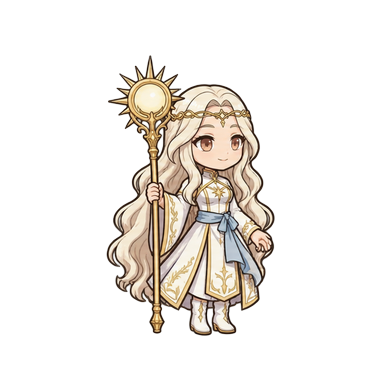
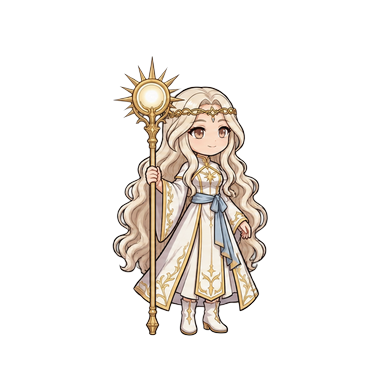
Art: Hikarine idle frames (AI)

Changed region(s): [[0.2812, 0.125, 0.7188, 0.875]]

diff --git a/docs/DEVELOPMENT_LOG.md b/docs/DEVELOPMENT_LOG.md
@@ -2291,3 +2291,12 @@ Các giá trị Q1–Q6 là **tuning trong data**, không sửa `CHARACTER_SKILL
 - **Kết quả thật:** Ba lớp 3840×2160; far alpha (255,255), mid/near alpha (0,255), sai lệch mép lặp = 0; preview stack 7680×2160. Godot quét/nhập cả 3 ảnh, mã thoát 0. Full test mã thoát 0: GdUnit 788/788, 5/5 smoke đạt. ART_MASTER báo 85 ảnh, 8 đã có, 2039 dòng.
 - **Quyết định Codex chọn:** Dùng tranh `ch01_open_01` làm tham chiếu cùng cảnh; theo owner, dùng lớp liền trước trong cùng lô làm tham chiếu khi tạo các lớp kế. Mặt trời che bình thường, Lò Mẹ tắt, chiều, không gió.
 - **Hạn chế đã biết:** Godot báo không ghi được cấu hình editor vào `AppData\Roaming\Godot`, nhưng lệnh import hoàn tất mã thoát 0. Chưa chạy game trong editor; owner đã duyệt bằng preview.
+
+## 2026-11-17 — ART: Hikarine idle frames (AI)
+- **Milestone / task:** Tạo và owner duyệt animation `idle` cho Hikarine (`char_light_01`), 6 frame.
+- **Trạng thái:** VERIFIED
+- **File tạo/sửa:** `assets/characters/char_light_01/frames/idle/` (6 PNG + `.import`); `assets/characters/char_light_01/frames_manifest.json`; `docs/ASSET_LICENSES.md` mục 2.1; `docs/DEVELOPMENT_LOG.md`. Bộ frame cũ được giữ trong `art_review/char_light_01/_replaced/` (không commit); dải và preview review ở `art_review/` (không commit).
+- **Đã chạy:** `C:\Users\default.LAPTOP-6QHN1193\AppData\Local\Programs\Python\Python312\python.exe -I tools/frames/approve_frames.py char_light_01 idle --replace`; `powershell -ExecutionPolicy Bypass -File tools\run_tests.ps1`; `C:\Users\default.LAPTOP-6QHN1193\AppData\Local\Programs\Python\Python312\python.exe -I tools/frames/check_frames.py char_light_01 idle --approved`.
+- **Kết quả thật:** `check_frames.py --approved` ĐẠT: 6 frame, 8 fps, lặp. Toàn bộ test mã thoát 0: GdUnit4 788/788; smoke 5/5. Owner duyệt preview bằng “duyệt idle”. Godot có in cảnh báo 2 resources còn được dùng khi thoát test, không làm đổi mã thoát.
+- **Quyết định Codex chọn:** Sinh một dải 6 pose trong một lần gọi; lưu model là `Built-in imagegen (model ID not exposed)`. Vì idle cũ đã có asset, `--replace` chuyển bộ cũ vào lưu trữ trước khi đưa bộ mới vào game.
+- **Hạn chế đã biết:** Chưa kiểm tra animation trong cửa sổ Godot; đã kiểm tra preview và toàn bộ test tự động.

diff --git a/docs/ASSET_LICENSES.md b/docs/ASSET_LICENSES.md
@@ -308,6 +308,7 @@ tạo ảnh với tài khoản owner. Phải khai báo nội dung AI khi phát h
 | assets/rhythm/rh_twin/die/slime/rh_twin_die_003.png — Song Âm, Sên Nhịp die | Codex imagegen / built-in imagegen (model ID không được cung cấp) | Frame 4/5 của hiệu ứng tan biến 20 fps: quái vỡ thành nốt sáng vàng, giữ nét viền/thiết kế, nền xanh #00B140. | rh_twin_original_preview.png, rh_slime_original_preview.png | Codex | 2026-11-16 |
 | assets/rhythm/rh_twin/die/slime/rh_twin_die_004.png — Song Âm, Sên Nhịp die | Codex imagegen / built-in imagegen (model ID không được cung cấp) | Frame 5/5 của hiệu ứng tan biến 20 fps: quái vỡ thành nốt sáng vàng, giữ nét viền/thiết kế, nền xanh #00B140. | rh_twin_original_preview.png, rh_slime_original_preview.png | Codex | 2026-11-16 |
 | assets/rhythm/rh_twin_chain.png — dây khuông năm vạch và chuông Song Âm, tile 64×256 | Codex imagegen / built-in imagegen (model ID không được cung cấp) | Dây vàng gồm năm vạch dọc liên tục và chuông giữa, nền trong suốt, cắt vừa tile dọc 64×256. | rh_twin_original_preview.png | Codex | 2026-11-16 |
+| `assets/characters/char_light_01/frames/idle/` (6 frame) — Hikarine | Codex imagegen / Built-in imagegen (model ID not exposed) | Hikarine idle: six right-facing chibi poses, gentle breathing and slight hair/sleeve/sash sway; preserve owner design, upright sun staff, transparent background, no VFX. | `char_light_01_ref_01_toan_than.png`, `char_light_01_ref_42_pose_dung_cam_gay.png`, `char_light_01_ref_27_gay_phep.png`, `char_light_01_ref_02_mat_binh_thuong.png` | Codex | 2026-11-17 |
 
 | `assets/rhythm/rh_bat/fly/rh_bat_fly_000.png` | Codex imagegen / Built-in imagegen (model ID không được công cụ cung cấp) | Dơi Nốt theo thiết kế đã duyệt; vỗ cánh theo chu kỳ, nhấp nhô nhẹ; sprite sheet lưới 3×2, cắt frame 256×256, tách nền xanh #00B140. | `assets/rhythm/_preview/rh_bat_original_preview.png` (ảnh gốc đã duyệt) | Codex | 2026-11-16 |
 | `assets/rhythm/rh_bat/fly/rh_bat_fly_001.png` | Codex imagegen / Built-in imagegen (model ID không được công cụ cung cấp) | Dơi Nốt theo thiết kế đã duyệt; vỗ cánh theo chu kỳ, nhấp nhô nhẹ; sprite sheet lưới 3×2, cắt frame 256×256, tách nền xanh #00B140. | `assets/rhythm/_preview/rh_bat_original_preview.png` (ảnh gốc đã duyệt) | Codex | 2026-11-16 |
